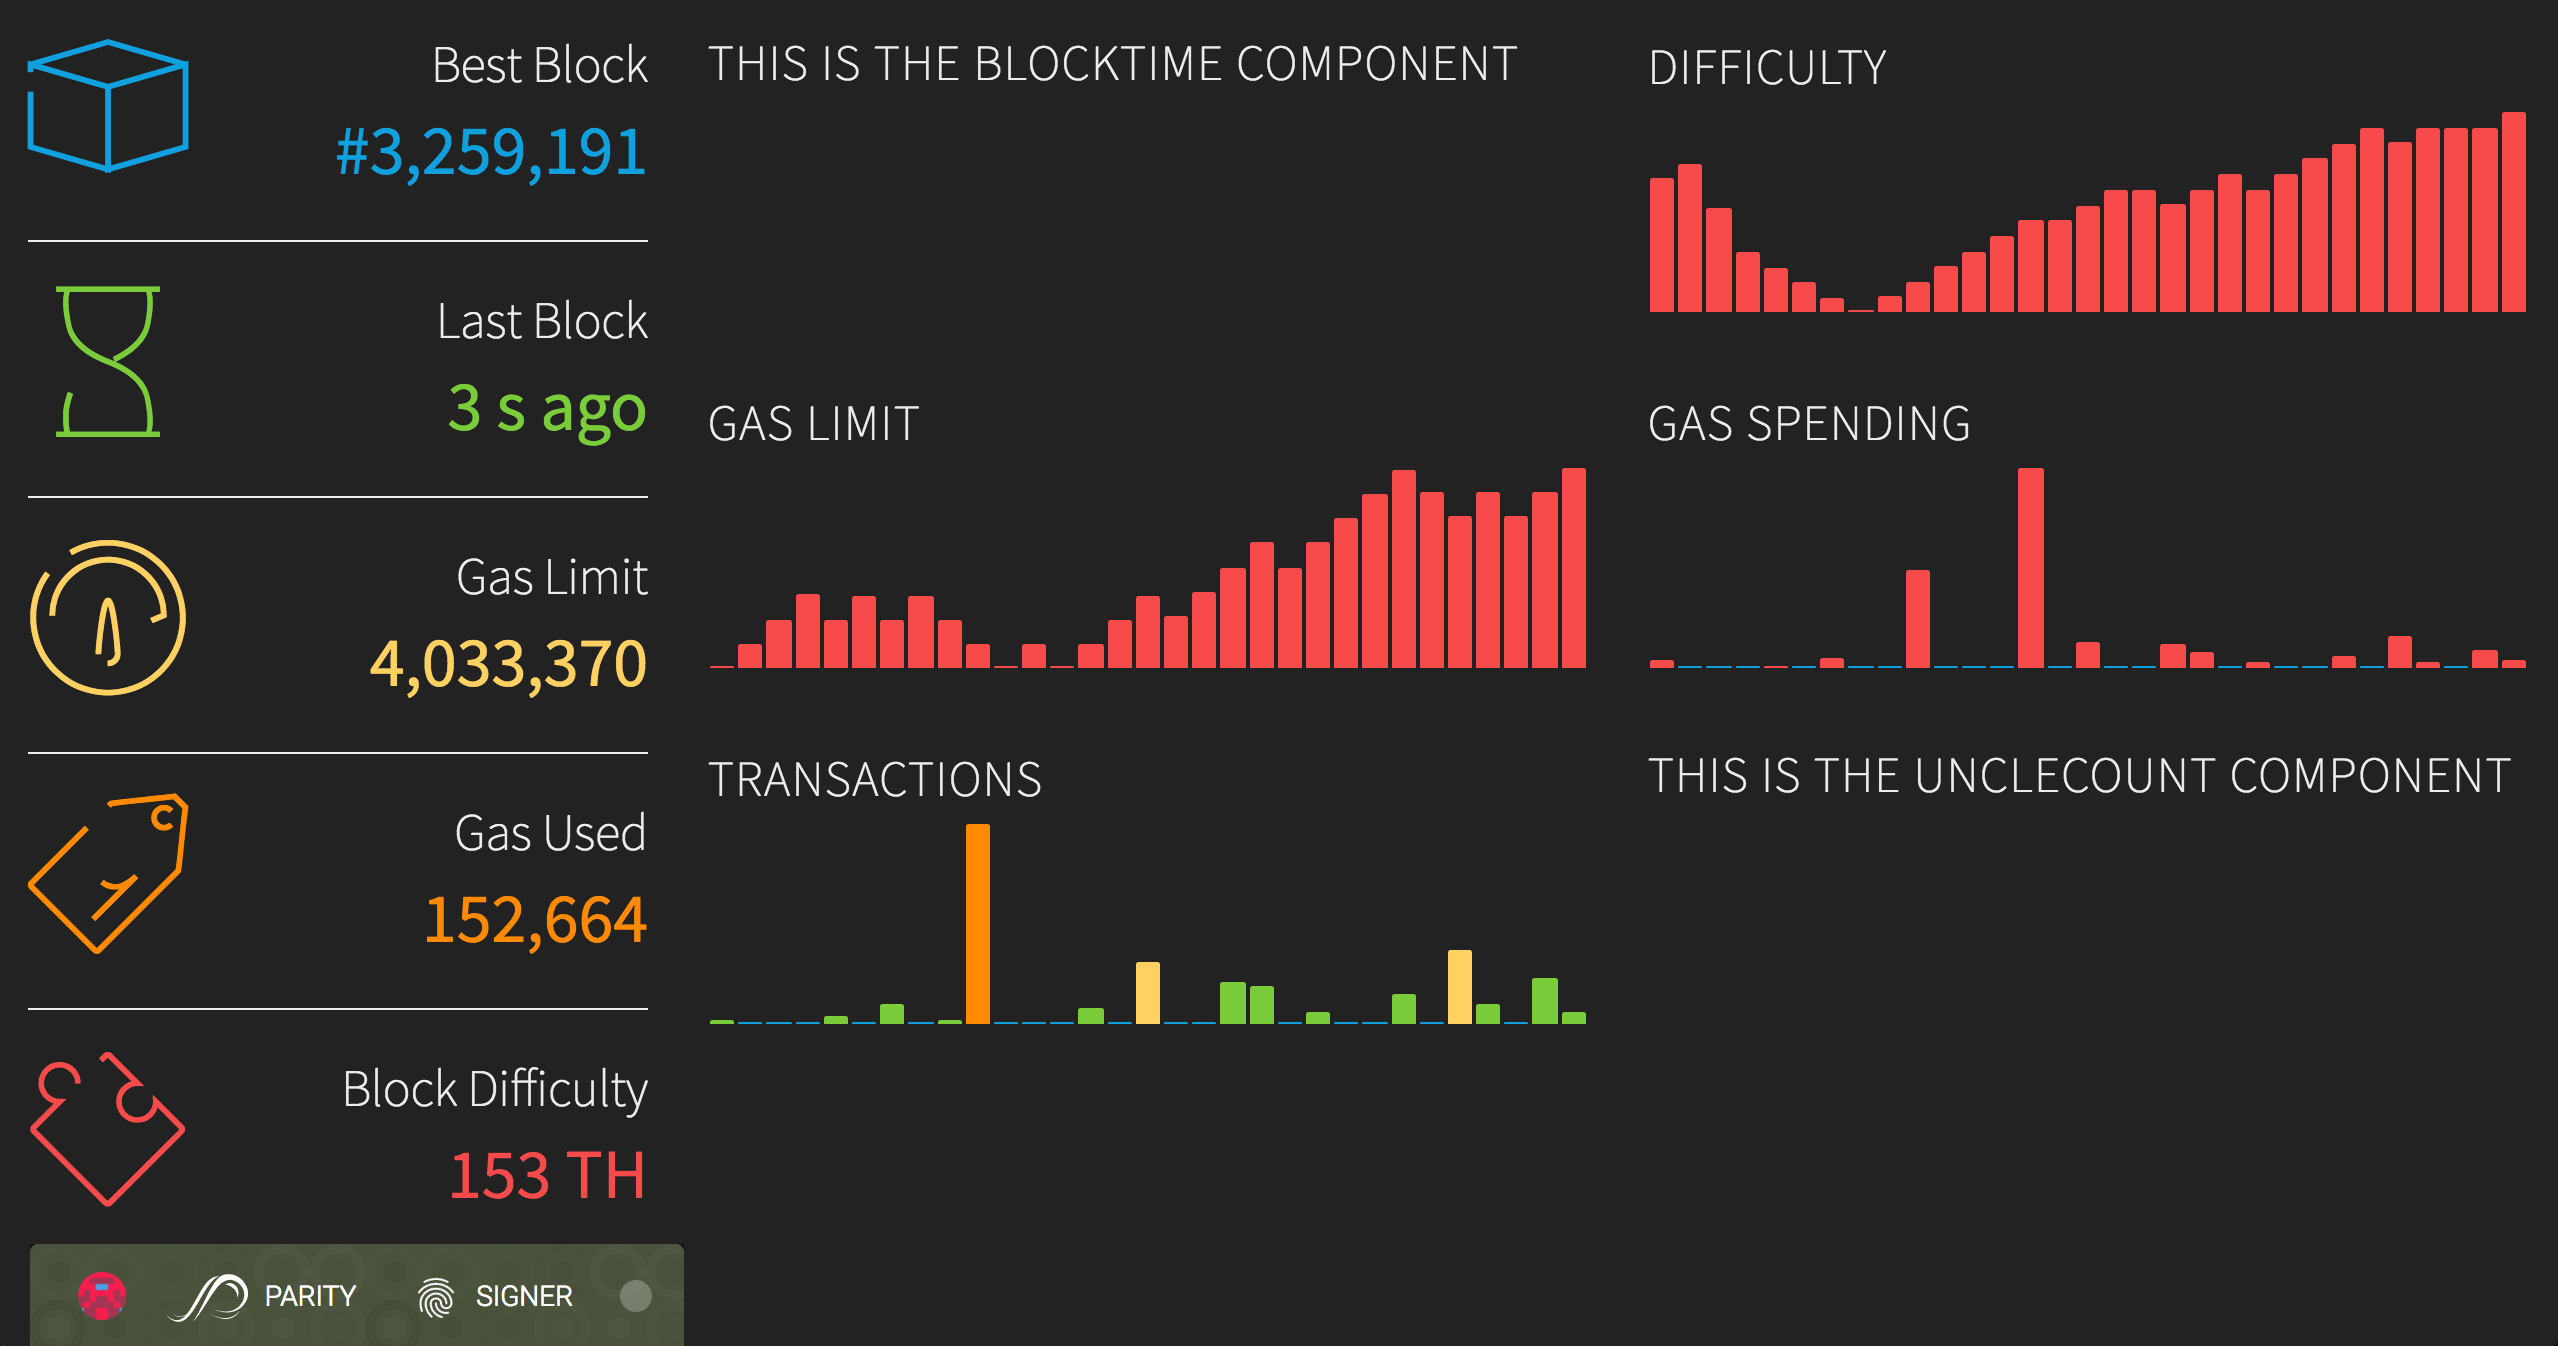
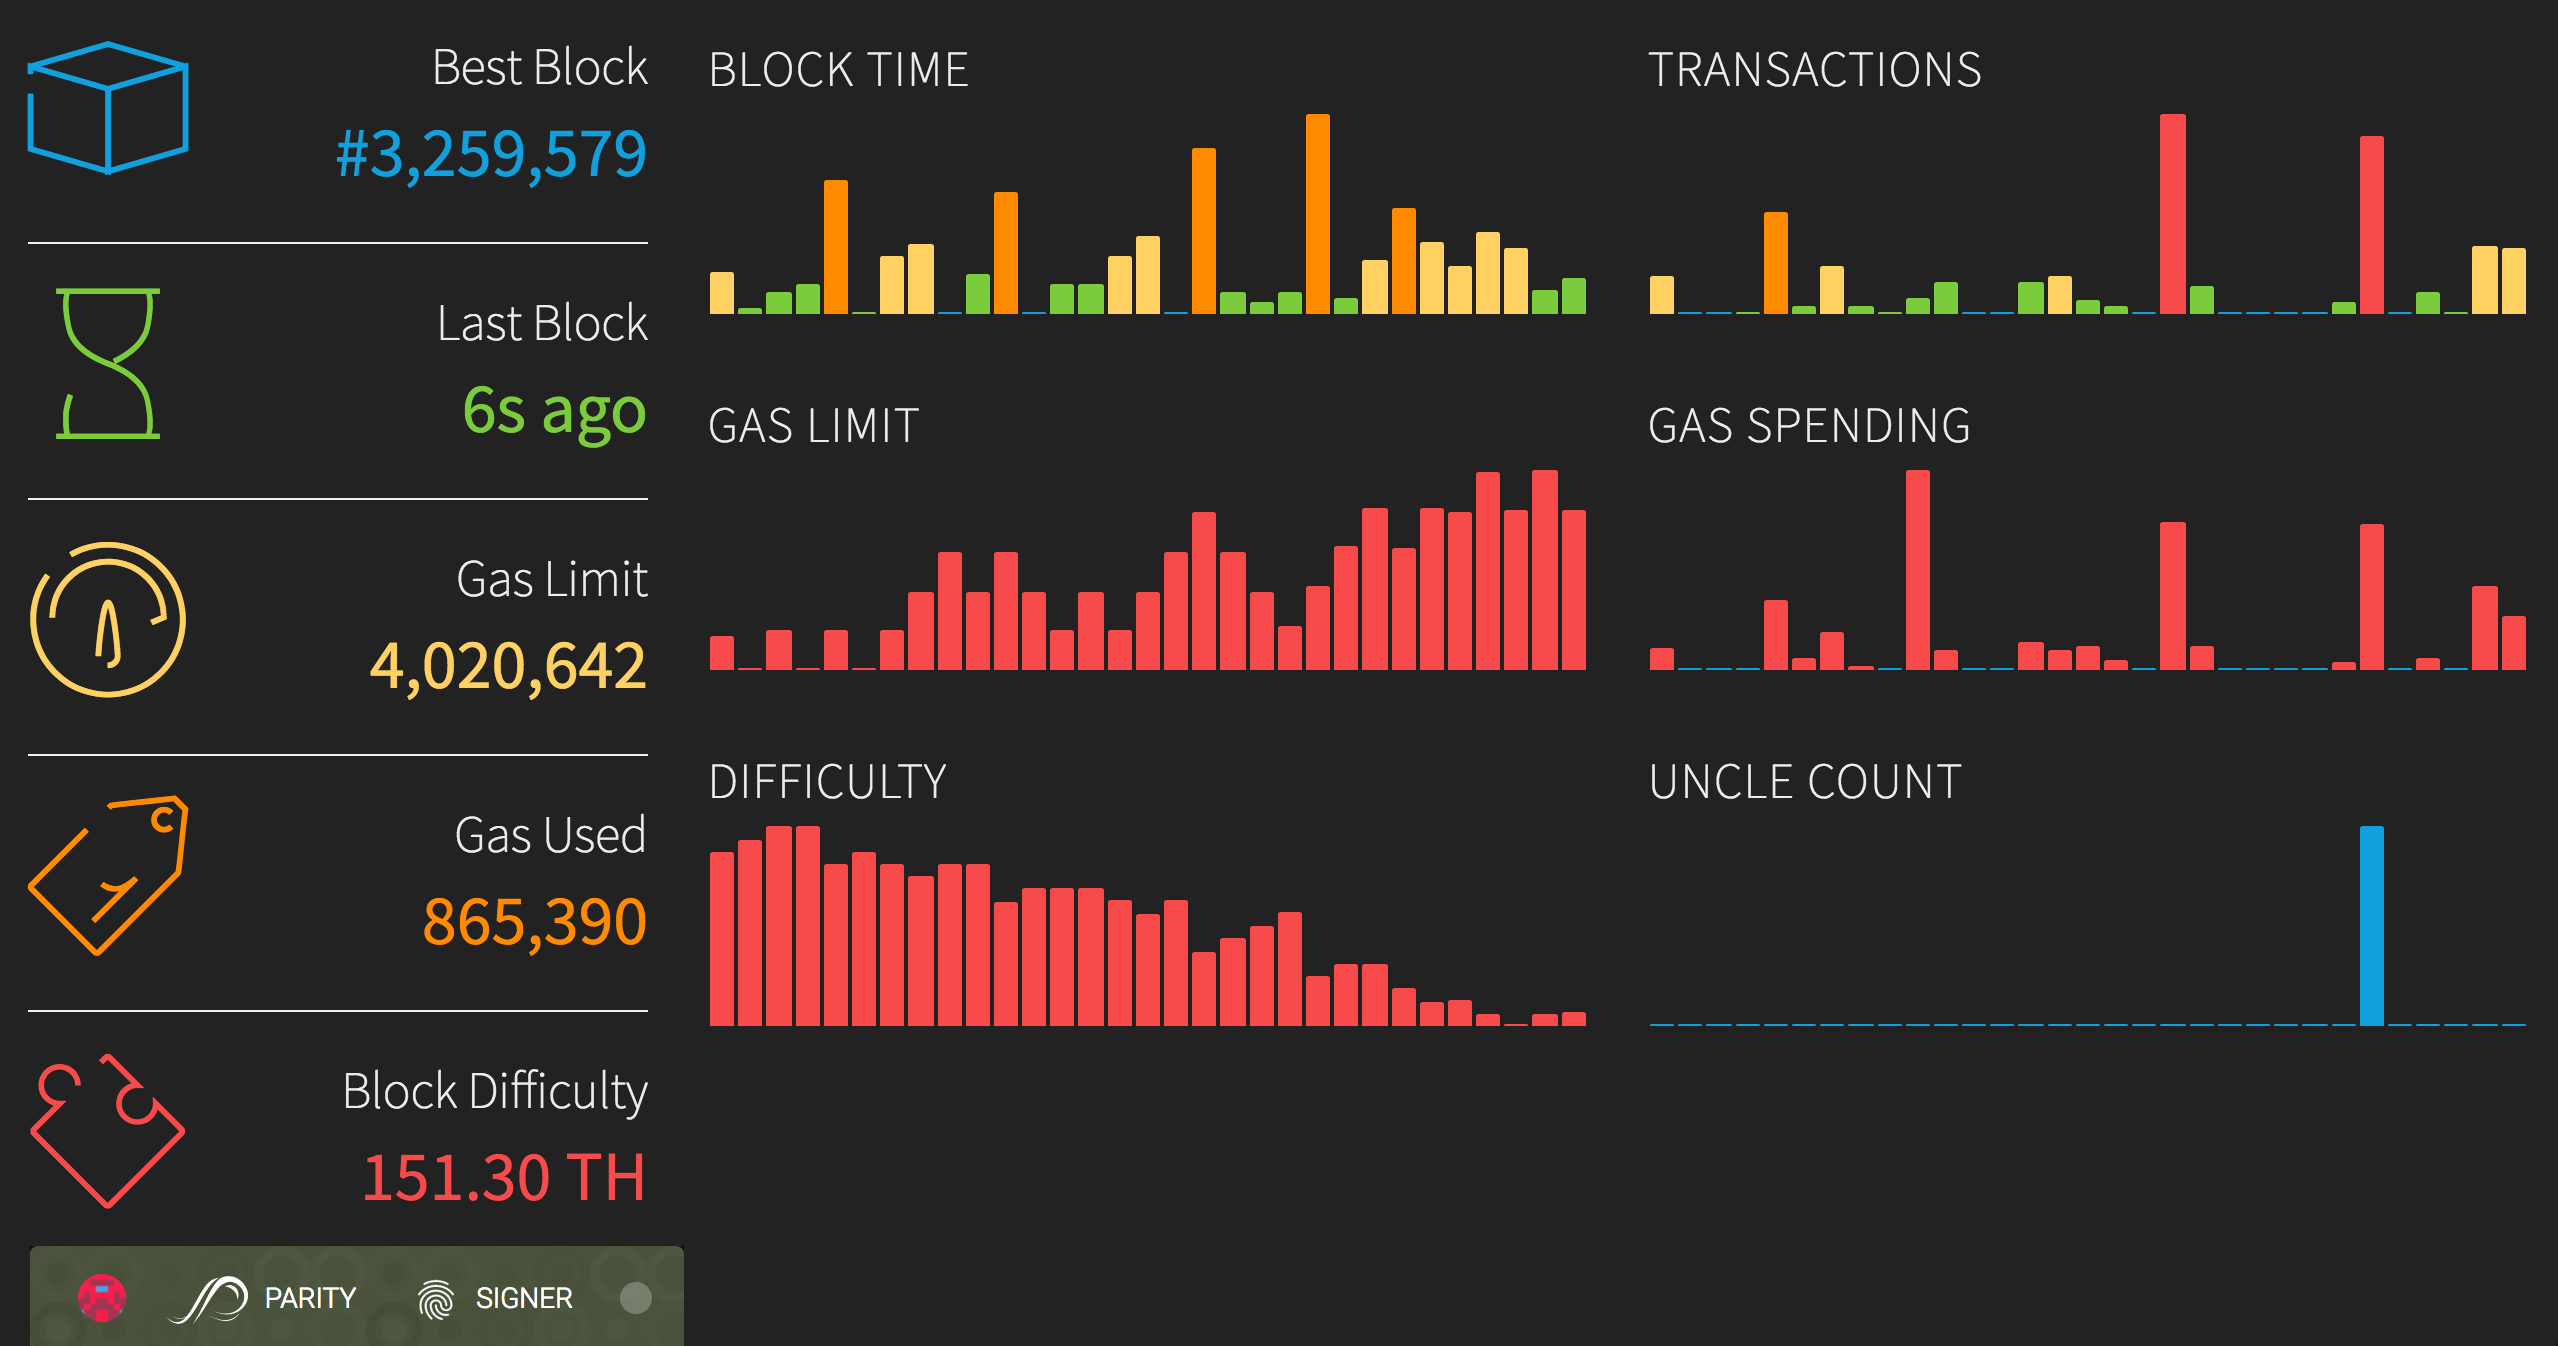
its ready for review

diff --git a/src/client/Components/graphs/BlockTime.js b/src/client/Components/graphs/BlockTime.js
@@ -1,12 +1,84 @@
-import React, { Component } from 'react';
+import React, { Component }   from 'react';
 import './graph.css';
 
 class BlockTime extends Component {
+  constructor() {
+    super();
+    this.state = {
+      val: null
+    }
+    this.high = 0;
+    this.low  = Infinity;
+    this.history = [0,0,0,0,0,0,0,0,0,0,0,0,0,0,0,0,0,0,0,0,0,0,0,0,0,0,0,0,0];
+  }
+
+  mouseOver(e) {
+    e.preventDefault();
+    let v = e.currentTarget.title;
+    this.setState({ val: v + " s" });
+  }
+
+  mouseLeave(e) {
+    e.preventDefault();
+    this.setState({ val: null });
+  }
+
   render() {
+
+    const self = this;
+    let { history } = this.props;
+    if (history.length < 31) {
+      history = self.history;
+    } else {
+      self.high = 0;
+      self.low  = Infinity;
+      history.forEach((b, i) => {
+        if (i === 0) return;
+        let n = Number.parseFloat((b.timestamp.getTime() - history[i - 1].timestamp.getTime()) / 1000);
+        if (n > self.high)
+          self.high = n;
+        if (n < self.low)
+          self.low = n;
+        self.history[i - 1] = n;
+      });
+    }
+    history = this.history.map((n, i) => {
+      const self = this;
+      let v = n;
+      if (self.high === self.low || n === 0) {
+        n = 1;
+        v = 0;
+      } else if (n !== 0) {
+        n = ( (n - self.low) * 100) / (self.high - self.low);
+      }
+      if (n <= 0) {
+        n = 1;
+        v = 0;
+      }
+      let c;
+      if (v >= 75)
+        c = "#f74b4b";
+      else if (v >= 35)
+        c = "#ff8a00";
+      else if (v >= 15)
+        c = "#ffd162";
+      else if (v > 1)
+        c = "#7bcc3a";
+      else
+        c = "#10a0de";
+      // Return the proper span
+      return <span key={i} style={{ height: n + "px", backgroundColor: c }} title={v} onMouseOver={self.mouseOver.bind(self)} />;
+    });
 
     return (
       <div className="BlockTime">
-        This is the BlockTime Component
+        <div>
+          <span className="title">Block Time</span>
+          <span className="title-value">{this.state.val}</span>
+        </div>
+        <div className="chart" onMouseLeave={this.mouseLeave.bind(this)}>
+          {history}
+        </div>
       </div>
     );
   }

diff --git a/src/client/Components/graphs/UncleCount.js b/src/client/Components/graphs/UncleCount.js
@@ -1,12 +1,71 @@
 import React, { Component }   from 'react';
 import './graph.css';
 
+const formatValue = (n) => ('' + n).replace(/(\d)(?=(\d{3})+$)/g, "$1,");
+
 class UncleCount extends Component {
+  constructor() {
+    super();
+    this.state = {
+      val: null
+    }
+    this.high = 0;
+    this.low  = Infinity;
+    this.history = [0,0,0,0,0,0,0,0,0,0,0,0,0,0,0,0,0,0,0,0,0,0,0,0,0,0,0,0,0,0];
+  }
+
+  mouseOver(e) {
+    e.preventDefault();
+    let v = e.currentTarget.title;
+    this.setState({ val: v });
+  }
+
+  mouseLeave(e) {
+    e.preventDefault();
+    this.setState({ val: null });
+  }
+
   render() {
+
+    const self = this;
+    let { history } = this.props;
+    if (history.length < 31) {
+      history = self.history;
+    } else {
+      self.high = 0;
+      self.low  = Infinity;
+      history.forEach((b, i) => {
+        if (i === 0) return;
+        let n = b.uncles.length;
+        if (n > self.high)
+          self.high = n;
+        if (n < self.low)
+          self.low = n;
+        this.history[i - 1] = n;
+      });
+    }
+    history = this.history.map((n, i) => {
+      const self = this;
+      let v = n;
+      if (self.high === self.low || n === 0) {
+        n = 1;
+        v = 0;
+      } else if (n !== 0) {
+        n = ( (n - self.low) * 100) / (self.high - self.low);
+      }
+      // Return the proper span
+      return <span key={i} style={{ height: n + "px", backgroundColor: "#10a0de" }} title={v} onMouseOver={self.mouseOver.bind(self)} />;
+    });
 
     return (
       <div className="UncleCount">
-        This is the UncleCount Component
+        <div>
+          <span className="title">Uncle Count</span>
+          <span className="title-value">{this.state.val}</span>
+        </div>
+        <div className="chart" onMouseLeave={this.mouseLeave.bind(this)}>
+          {history}
+        </div>
       </div>
     );
   }

diff --git a/src/client/Components/figures/stats.js b/src/client/Components/figures/stats.js
@@ -16,25 +16,38 @@ class Stats extends Component {
       clock:   0,
       statNow: Date.now()
     };
+    self.timer = null;
+    self.updateTime();
+  }
+
+  updateTime() {
+    console.log("UPDATE");
+    const self = this;
+    if (self.timer) {
+      clearInterval(self.timer);
+      self.timer = null;
+      self.setState({ clock: 0, statNow: Date.now() });
+    }
     self.timer = setInterval(() => {
       let c = self.state.clock;
       c++;
       self.setState({ clock: c });
     }, 1000);
   }
-  render() {
+
+  componentWillReceiveProps(nextProps) {
     const self = this;
-    let { blockNumber, difficulty, gasLimit, gasUsed, now } = self.props.store;
+    let { blockNumber, difficulty, gasLimit, gasUsed, now } = nextProps.store;
     let { clock, statNow } = self.state;
     if (statNow < now) {
-      clearInterval(self.timer);
-      self.setState({ clock: (0), statNow: Date.now() });
-      self.timer = setInterval(() => {
-        let c = self.state.clock;
-        c++;
-        self.setState({ clock: c });
-      }, 1000);
+      self.updateTime();
     }
+  }
+
+  render() {
+    const self = this;
+    let { blockNumber, difficulty, gasLimit, gasUsed } = self.props.store;
+    let { clock } = self.state;
     let clockStyle = null;
 
     if (clock >= 30)
@@ -101,11 +114,3 @@ class Stats extends Component {
 }
 
 export default Stats;
-
-// <div className="latency col-md-3">
-//   <span className="icon-clock" style={{fontFamily: "minimal-icons"}}></span>
-//   <div className="info">
-//     <div className="block-title">Block Latency</div>
-//     <Rspan style={{ position: "absolute", right: "0", bottom: "0", fontWeight: "normal", fontSize: "35px" }}>{timestamp.map(this.getLatency)}</Rspan>
-//   </div>
-// </div>

diff --git a/src/client/Components/App.js b/src/client/Components/App.js
@@ -95,10 +95,10 @@ class App extends Component {
         </div>
         <div className="graphs">
           <div className="col-md-6"><BlockTime    history={history} /></div>
-          <div className="col-md-6"><Difficulty   history={history} /></div>
+          <div className="col-md-6"><Transactions history={history} /></div>
           <div className="col-md-6"><GasLimit     history={history} /></div>
           <div className="col-md-6"><GasSpending  history={history} /></div>
-          <div className="col-md-6"><Transactions history={history} /></div>
+          <div className="col-md-6"><Difficulty   history={history} /></div>
           <div className="col-md-6"><UncleCount   history={history} /></div>
         </div>
       </div>

diff --git a/src/client/Components/graphs/Difficulty.js b/src/client/Components/graphs/Difficulty.js
@@ -30,10 +30,8 @@ class Difficulty extends Component {
     const self = this;
     let { history } = this.props;
     if (history.length < 31) {
-      console.log("NOT YET");
       history = self.history;
     } else {
-      console.log("SUCCESS");
       self.high = 0;
       self.low  = Infinity;
       history.forEach((b, i) => {

diff --git a/src/client/Components/graphs/Transactions.js b/src/client/Components/graphs/Transactions.js
@@ -51,7 +51,7 @@ class Transactions extends Component {
         n = 1;
         v = 0;
       } else if (n !== 0) {
-        n = ( (n-self.low) * 100) / (self.high-self.low);
+        n = ( (n - self.low) * 100) / (self.high - self.low);
       }
       let c;
       if (v >= 75)

diff --git a/README.md b/README.md
@@ -3,3 +3,5 @@
 ### Ethstat port as a Parity dapp
 
 ![parity-ethstat](https://github.com/CraigglesO/ethstats-parity/blob/master/parity-ethstat.png)
+
+![parity-ethstat2](https://github.com/CraigglesO/ethstats-parity/blob/master/parity-ethstat2.png)
